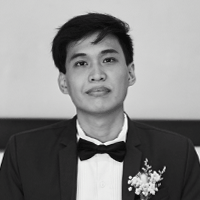
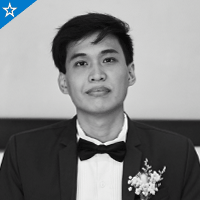
style adjust

Changed region(s): [[0.0, 0.0, 0.18, 0.15]]

diff --git a/src/components/Screen/Contents/Contents.scss b/src/components/Screen/Contents/Contents.scss
@@ -135,7 +135,7 @@
           color: #cccccc;
         }
 
-        &:hover {
+        &:not(.active):hover {
           background-color: #313132;
         }
       }
@@ -236,6 +236,7 @@
           margin-top: 20px;
           height: 150px;
           width: 150px;
+          border-radius: 5px;
         }
 
         @media (max-width: 1050px) {

diff --git a/src/components/Screen/Contents/index.js b/src/components/Screen/Contents/index.js
@@ -9,6 +9,7 @@ import {
   VscChevronDown,
   VscAccount,
   VscCode,
+  VscStarEmpty,
 } from 'react-icons/vsc';
 import './Contents.scss';
 
